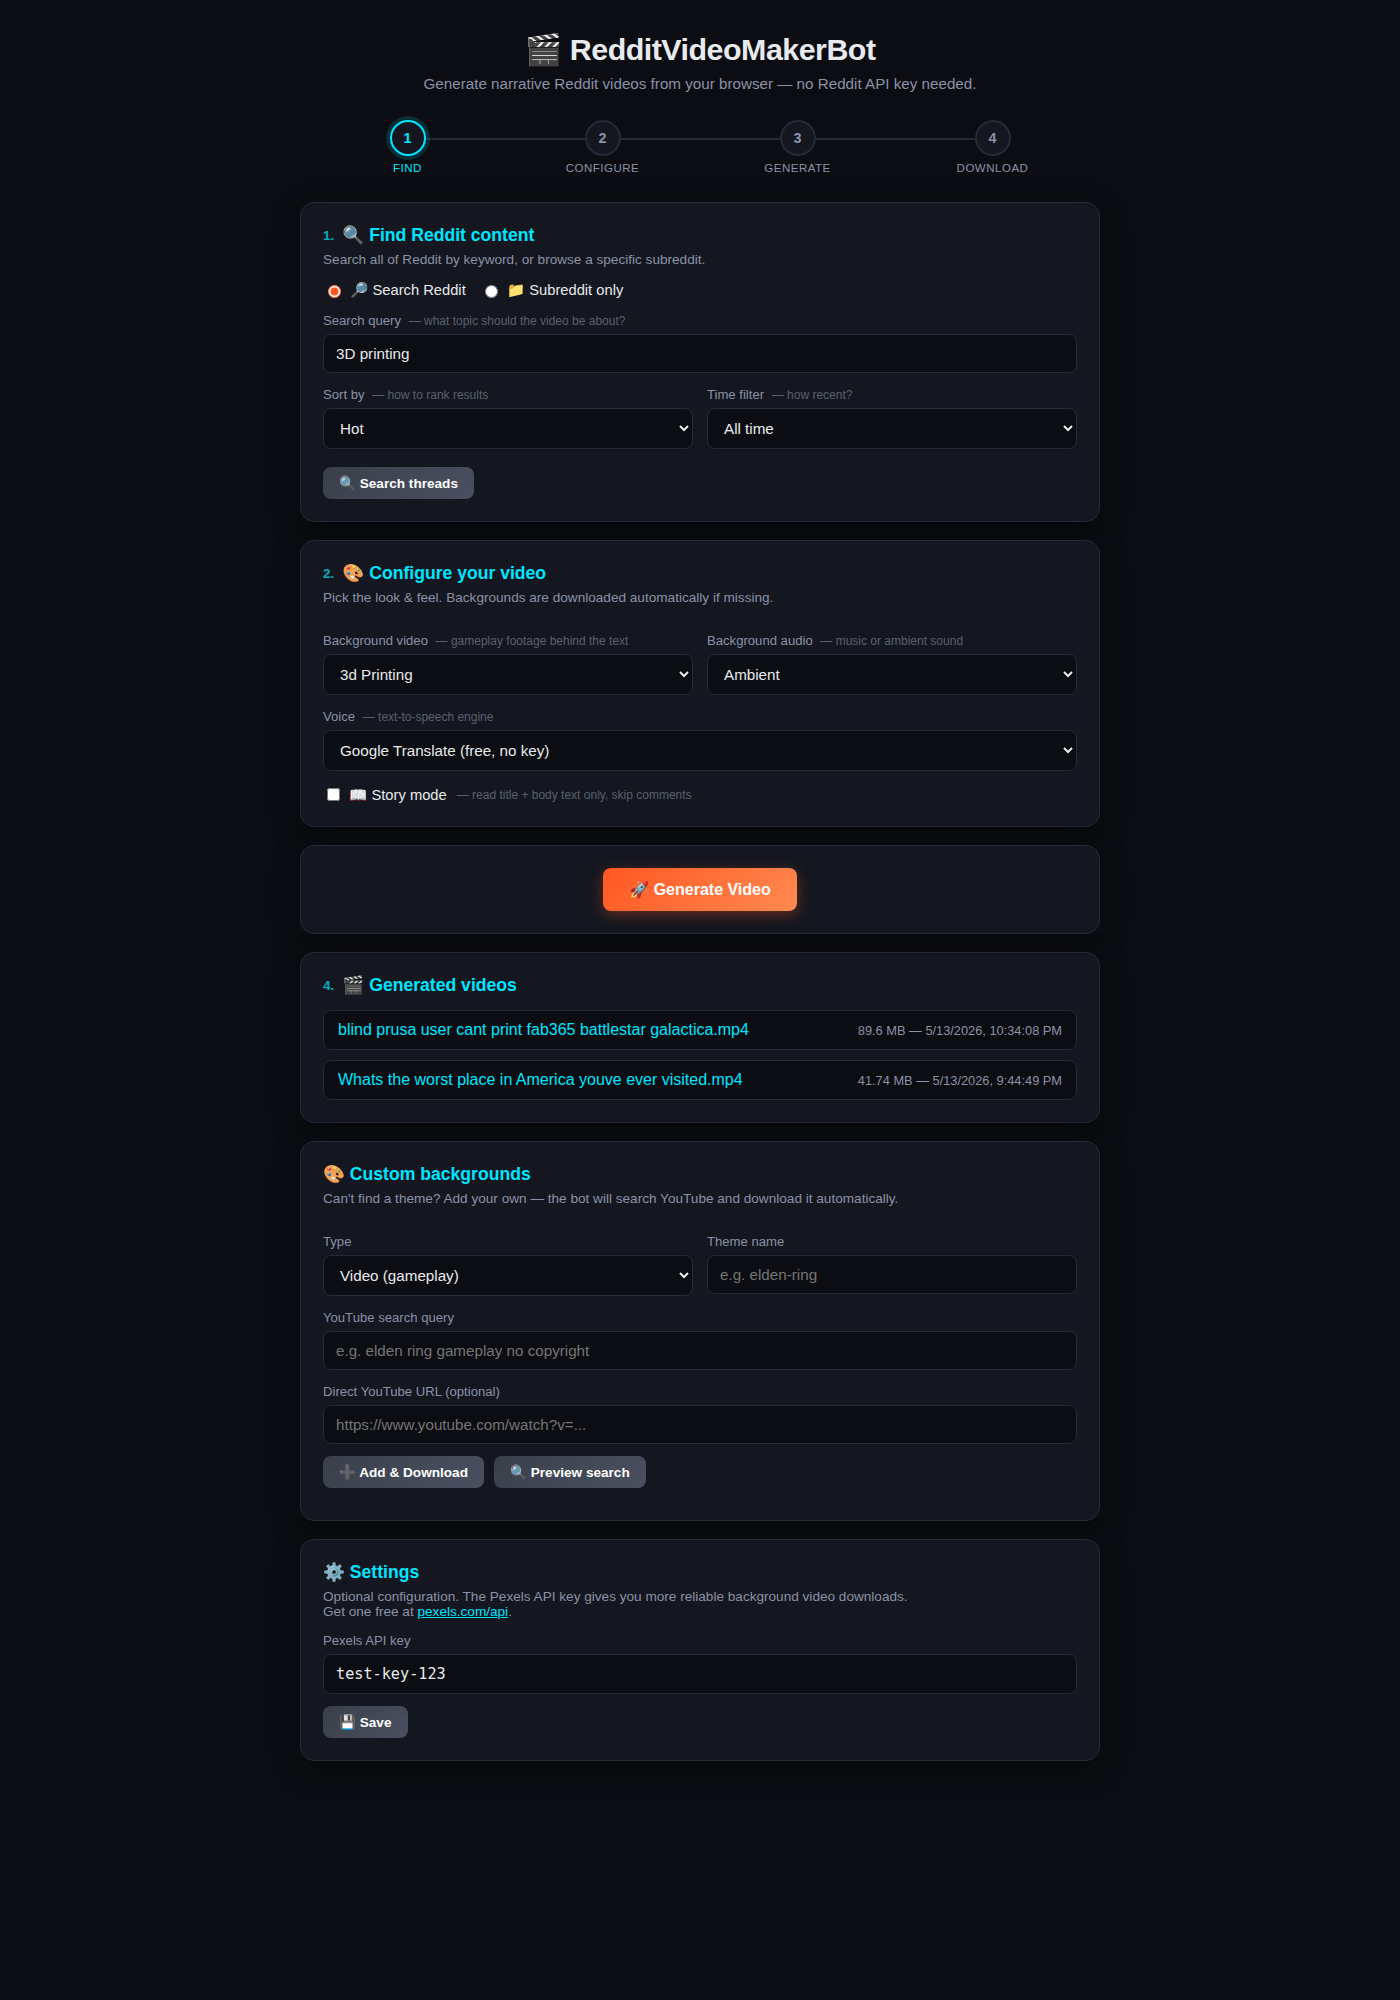
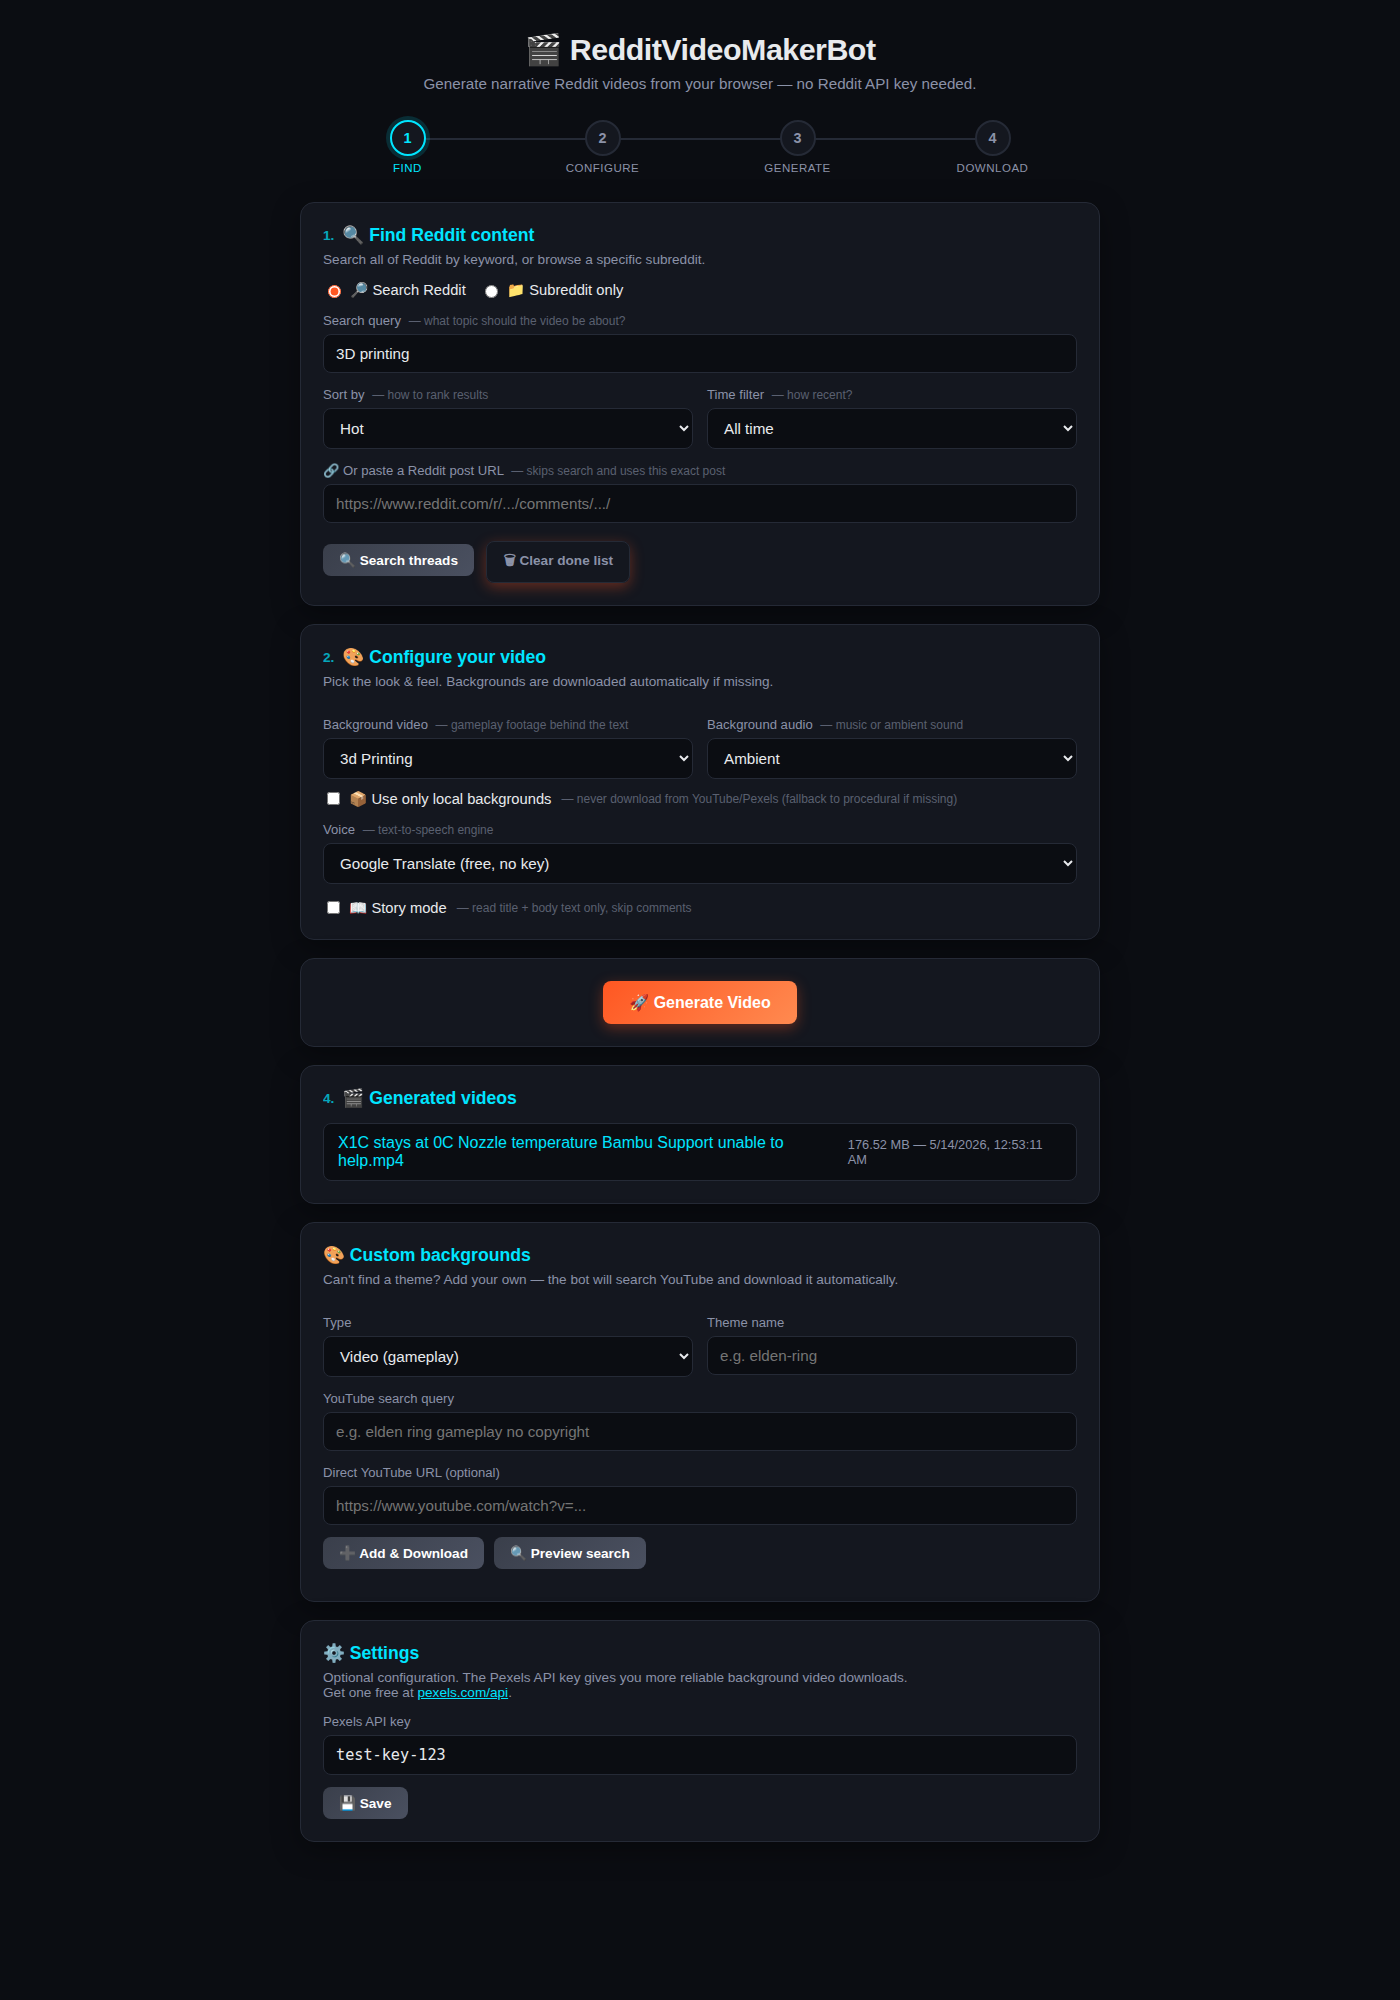
fix: fallback search on 0 results, SystemExit=error, direct Reddit URL, clear-done, post_id bypass

diff --git a/web_ui/templates/index.html b/web_ui/templates/index.html
@@ -216,10 +216,16 @@ pre.log .info { color: #64b5f6; }
       <input type="text" id="subreddit" placeholder="e.g. AskReddit" value="AskReddit">
     </div>
 
+    <div style="margin-top:14px">
+      <label for="reddit_url">🔗 Or paste a Reddit post URL <span class="hint">— skips search and uses this exact post</span></label>
+      <input type="text" id="reddit_url" placeholder="https://www.reddit.com/r/.../comments/.../">
+    </div>
+
     <div style="margin-top:18px">
       <button id="search-btn" class="btn small secondary" onclick="doPreview()">
         <span id="search-btn-text">🔍 Search threads</span>
       </button>
+      <button class="btn small" style="margin-left:8px;background:transparent;border:1px solid var(--border);color:var(--muted)" onclick="clearDone()">🗑 Clear done list</button>
       <span id="search-status" style="margin-left:10px; font-size:.85rem;"></span>
     </div>
 
@@ -385,6 +391,17 @@ function formatLog(text) {
     .replace(/Getting|Searching|Downloading|Rendering|Making/g, m => `<span class="info">${m}</span>`);
 }
 
+async function clearDone() {
+  if (!confirm("Clear the 'already done' list? This lets you re-generate videos from previously used threads.")) return;
+  const res = await fetch('/clear_done', {method: 'POST'});
+  const data = await res.json();
+  if (data.status === 'cleared') {
+    alert('Done list cleared! You can now re-use previous threads.');
+  } else {
+    alert('Error: ' + (data.error || 'unknown'));
+  }
+}
+
 async function loadVideos() {
   const res = await fetch('/videos');
   const data = await res.json();
@@ -535,6 +552,7 @@ async function startGeneration() {
     voice: document.getElementById('voice').value,
     storymode: document.getElementById('storymode').checked,
     use_local_only: document.getElementById('use_local_only').checked,
+    reddit_url: document.getElementById('reddit_url').value.trim(),
     chosen_thread_id: chosenThreadId,
   };
 

diff --git a/reddit/subreddit.py b/reddit/subreddit.py
@@ -32,8 +32,13 @@ def get_subreddit_threads(POST_ID: str):
         search_limit = int(settings.config["reddit"]["thread"].get("search_limit", 25))
         threads = list(reddit.search(search_query, sort=search_sort, time_filter=search_time, limit=search_limit))
         if not threads:
-            print_substep("No results found for search query.")
-            exit()
+            # Fallback: try with just the first word of the query
+            first_word = search_query.split()[0] if search_query.split() else ""
+            if first_word and first_word != search_query:
+                print_substep(f"No results for full query. Trying fallback: '{first_word}'")
+                threads = list(reddit.search(first_word, sort=search_sort, time_filter=search_time, limit=search_limit))
+            if not threads:
+                raise RuntimeError(f"No results found for search query '{search_query}'. Try a broader term or change the time filter.")
         # For search mode we bypass the subreddit object and pick directly
         subreddit = None
         if settings.config["ai"]["ai_similarity_enabled"]:
@@ -45,10 +50,20 @@ def get_subreddit_threads(POST_ID: str):
             submission, similarity_score = get_subreddit_undone(threads, subreddit, similarity_scores=similarity_scores)
         else:
             submission = get_subreddit_undone(threads, subreddit)
+        if submission is None:
+            raise RuntimeError("All found threads were already used or filtered out. Try a different search or clear the done-videos list.")
     else:
-        if not settings.config["reddit"]["thread"][
+        # If a specific post_id is configured, use it directly (bypass subreddit selection)
+        if settings.config["reddit"]["thread"]["post_id"]:
+            post_ids = str(settings.config["reddit"]["thread"]["post_id"]).split("+")
+            if len(post_ids) == 1:
+                submission = reddit.submission(id=post_ids[0])
+            else:
+                # Multiple post IDs — handled by main.py loop, here we just take the first
+                submission = reddit.submission(id=post_ids[0])
+        elif not settings.config["reddit"]["thread"][
             "subreddit"
-        ]:  # note to user. you can have multiple subreddits via reddit.subreddit("redditdev+learnpython")
+        ]:
             try:
                 subreddit = reddit.subreddit(
                     re.sub(r"r\/", "", input("What subreddit would you like to pull from? "))
@@ -61,30 +76,23 @@ def get_subreddit_threads(POST_ID: str):
             sub = settings.config["reddit"]["thread"]["subreddit"]
             print_substep(f"Using subreddit: r/{sub} from TOML config")
             subreddit_choice = sub
-            if str(subreddit_choice).casefold().startswith("r/"):  # removes the r/ from the input
+            if str(subreddit_choice).casefold().startswith("r/"):
                 subreddit_choice = subreddit_choice[2:]
             subreddit = reddit.subreddit(subreddit_choice)
 
-        if POST_ID:  # would only be called if there are multiple queued posts
+        if POST_ID:
             submission = reddit.submission(id=POST_ID)
-
-        elif (
-            settings.config["reddit"]["thread"]["post_id"]
-            and len(str(settings.config["reddit"]["thread"]["post_id"]).split("+")) == 1
-        ):
-            submission = reddit.submission(id=settings.config["reddit"]["thread"]["post_id"])
-        elif settings.config["ai"]["ai_similarity_enabled"]:  # ai sorting based on comparison
+        elif settings.config["ai"]["ai_similarity_enabled"]:
             threads = list(subreddit.hot(limit=50))
             keywords = settings.config["ai"]["ai_similarity_keywords"].split(",")
             keywords = [keyword.strip() for keyword in keywords]
-            # Reformat the keywords for printing
             keywords_print = ", ".join(keywords)
             print(f"Sorting threads by similarity to the given keywords: {keywords_print}")
             threads, similarity_scores = sort_by_similarity(threads, keywords)
             submission, similarity_score = get_subreddit_undone(
                 threads, subreddit, similarity_scores=similarity_scores
             )
-        else:
+        elif not settings.config["reddit"]["thread"]["post_id"]:
             threads = list(subreddit.hot(limit=25))
             submission = get_subreddit_undone(threads, subreddit)
 
@@ -92,8 +100,7 @@ def get_subreddit_threads(POST_ID: str):
         return get_subreddit_threads(POST_ID)  # submission already done. rerun
 
     elif not submission.num_comments and settings.config["settings"]["storymode"] == "false":
-        print_substep("No comments found. Skipping.")
-        exit()
+        raise RuntimeError("No comments found on this post. Try a different thread or enable story mode.")
 
     submission = check_done(submission)  # double-checking
 

diff --git a/web_ui/app.py b/web_ui/app.py
@@ -208,7 +208,22 @@ def generate():
     cfg = settings.config
 
     mode = data.get("mode", "search")
-    if mode == "search":
+    reddit_url = data.get("reddit_url", "").strip()
+
+    if reddit_url:
+        # Extract post ID from Reddit URL
+        m = re.search(r"/comments/([a-z0-9]+)", reddit_url, re.I)
+        if not m:
+            m = re.search(r"redd\.it/([a-z0-9]+)", reddit_url, re.I)
+        if not m:
+            m = re.search(r"reddit\.com/r/\w+/s/([a-z0-9]+)", reddit_url, re.I)
+        if m:
+            cfg["reddit"]["thread"]["post_id"] = m.group(1)
+            cfg["reddit"]["thread"]["search_query"] = ""
+            cfg["reddit"]["thread"]["subreddit"] = ""
+        else:
+            return jsonify({"error": "Could not extract post ID from Reddit URL."}), 400
+    elif mode == "search":
         cfg["reddit"]["thread"]["subreddit"] = ""
         cfg["reddit"]["thread"]["search_query"] = data.get("query", "AskReddit")
         cfg["reddit"]["thread"]["search_sort"] = data.get("sort", "hot")
@@ -219,9 +234,9 @@ def generate():
 
     # If user picked a specific thread from preview, force that post_id
     chosen_id = data.get("chosen_thread_id", "").strip()
-    if chosen_id:
+    if chosen_id and not reddit_url:
         cfg["reddit"]["thread"]["post_id"] = chosen_id
-    else:
+    elif not reddit_url:
         cfg["reddit"]["thread"]["post_id"] = ""
 
     cfg["settings"]["background"]["background_video"] = data.get("video", "minecraft")
@@ -261,14 +276,13 @@ def generate():
             vids = _list_generated_videos()
             if vids:
                 generation["video_path"] = vids[0]["path"]
-        except SystemExit as exc:
-            # The bot calls exit() in several places (e.g. no comments found).
-            # Treat a clean exit (code 0) as success, otherwise as error.
-            generation["log"] = buf.getvalue()
-            if exc.code == 0 or exc.code is None:
-                generation["result"] = "Finished."
             else:
-                generation["error"] = f"Bot exited with code {exc.code}"
+                generation["error"] = "Bot finished but no video file was created. Check the log for details."
+        except SystemExit as exc:
+            # The bot may call exit() in several places.
+            # Treat ANY SystemExit as an error because the video wasn't produced.
+            generation["log"] = buf.getvalue()
+            generation["error"] = f"Bot exited early (code {exc.code}). Check the log for details."
         except Exception as exc:
             generation["log"] = buf.getvalue() + "\n" + traceback.format_exc()
             generation["error"] = str(exc)
@@ -371,6 +385,18 @@ def config_route():
     with open(BASE_DIR / "config.toml", "w") as f:
         toml.dump(settings.config, f)
     return jsonify({"status": "saved"})
+
+
+@app.route("/clear_done", methods=["POST"])
+def clear_done():
+    """Clear the done-videos list so previously generated threads can be reused."""
+    done_path = BASE_DIR / "video_creation" / "data" / "videos.json"
+    try:
+        with open(done_path, "w", encoding="utf-8") as f:
+            json.dump([], f)
+        return jsonify({"status": "cleared"})
+    except Exception as exc:
+        return jsonify({"error": str(exc)}), 500
 
 
 @app.route("/download/<path:filename>")
